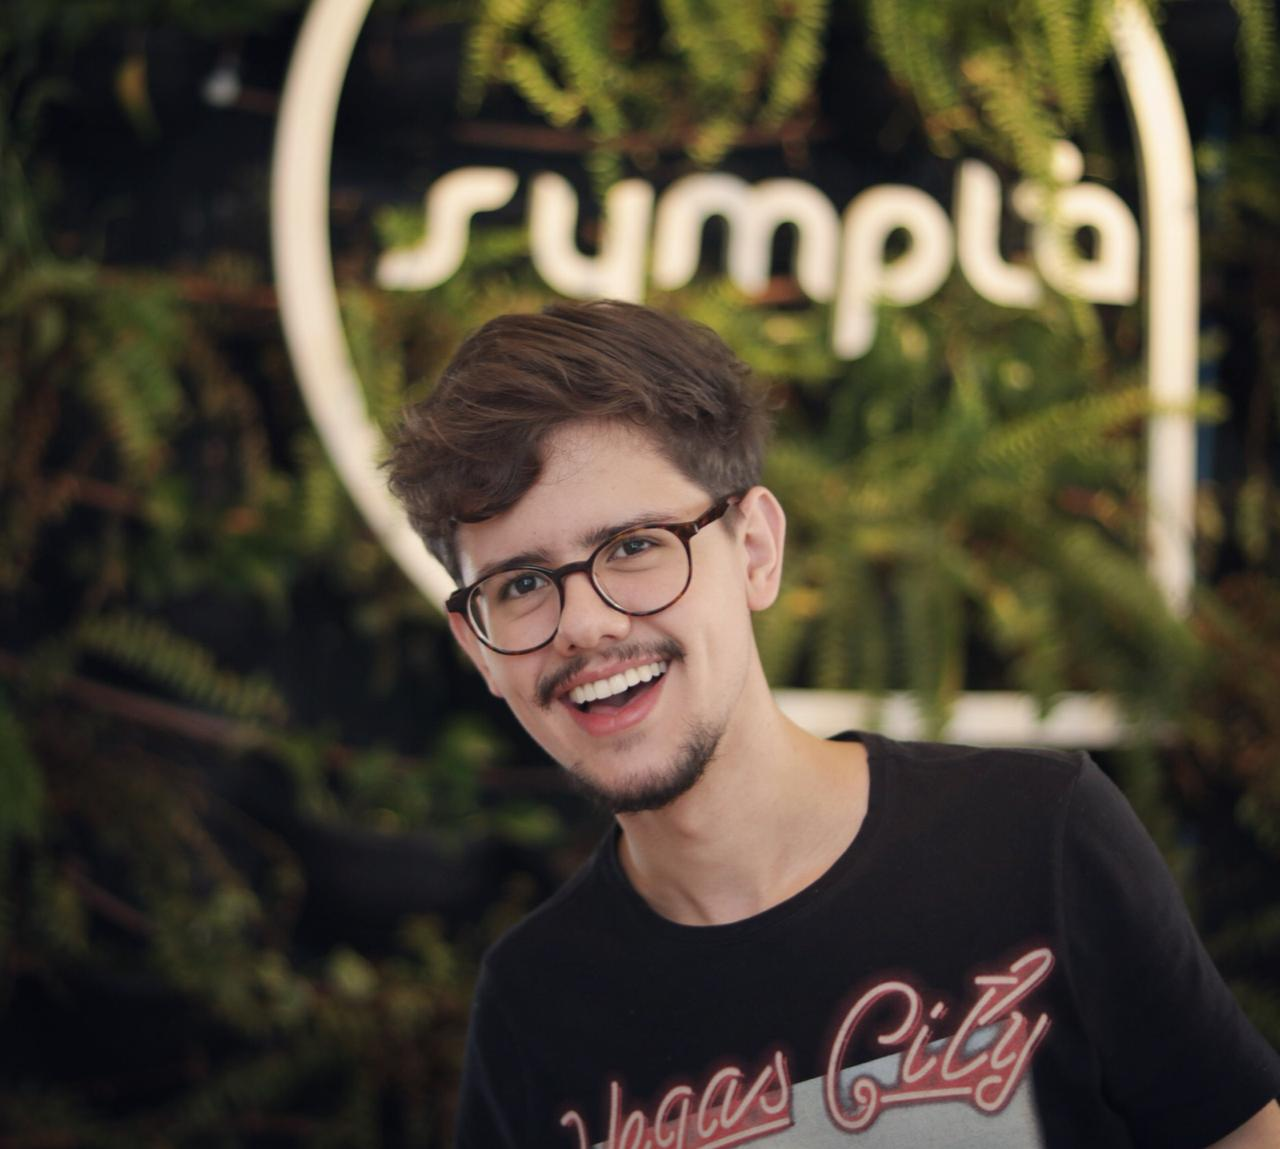
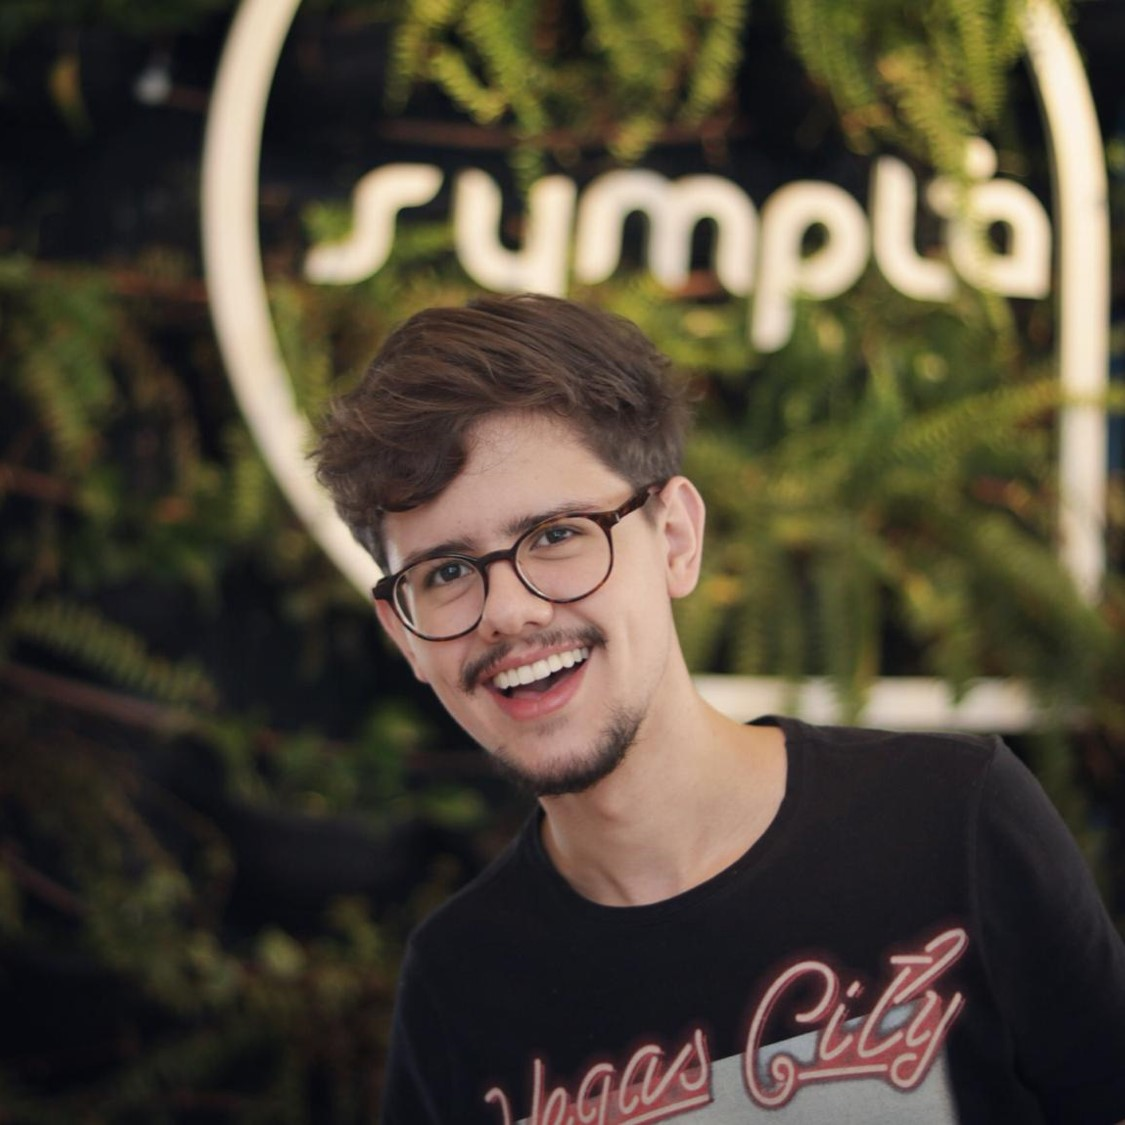
Correções 26.11
Correção no calculo da precificação;
Correção na proporção das imagens do time;
Correções nos dados dos atestados;
Adição dos outros membros do time;
Ordenação dos membros do time;

diff --git a/index.html b/index.html
@@ -165,7 +165,7 @@
         <div class="col-md-12">
             <div class="section-heading">
                 <span>Consulta</span>
-                <h2>Desculpe, Este atestado não existe em nossa base de dados :(</h2>
+                <h2>Desculpe, este atestado não existe em nossa base de dados :(</h2>
             </div>
         </div> 
     </div> 
@@ -187,26 +187,8 @@
                 <div class="thumb">
                     <img src="img/team/fernando.jpg" alt="">
                     <div class="text-content">
-                        <h4>Fernando</h4>
-                        <span>Backend</span>
-                    </div>
-                </div>
-            </div>
-            <div class="item popular-item">
-                <div class="thumb">
-                    <img src="img/team/felipe.jpg" alt="">
-                    <div class="text-content">
-                        <h4>Felipe Assunção</h4>
-                        <span>Backend</span>
-                    </div>
-                </div>
-            </div>
-            <div class="item popular-item">
-                <div class="thumb">
-                    <img src="img/team/iago.jpg" alt="">
-                    <div class="text-content">
-                        <h4>Iago Lacerda</h4>
-                        <span>Documentação</span>
+                        <h4>Fernando Corrêa</h4>
+                        <span>Dev</span>
                     </div>
                 </div>
             </div>
@@ -215,11 +197,46 @@
                     <img src="img/team/gustavo.jpg" alt="">
                     <div class="text-content">
                         <h4>Gustavo Pereira</h4>
-                        <span>Frontend</span>
+                        <span>Dev</span>
                     </div>
                 </div>
             </div>
-
+			<div class="item popular-item">
+                <div class="thumb">
+                    <img src="img/team/mateus.jpg" alt="">
+                    <div class="text-content">
+                        <h4>Mateus Zuffo</h4>
+                        <span>Dev</span>
+                    </div>
+                </div>
+            </div>
+			<div class="item popular-item">
+                <div class="thumb">
+                    <img src="img/team/samuel.jpg" alt="">
+                    <div class="text-content">
+                        <h4>Samuel Cleto</h4>
+                        <span>Dev</span>
+                    </div>
+                </div>
+            </div>
+            <div class="item popular-item">
+                <div class="thumb">
+                    <img src="img/team/felipe.jpg" alt="">
+                    <div class="text-content">
+                        <h4>Felipe Assunção</h4>
+                        <span>Doc</span>
+                    </div>
+                </div>
+            </div>
+            <div class="item popular-item">
+                <div class="thumb">
+                    <img src="img/team/iago.jpg" alt="">
+                    <div class="text-content">
+                        <h4>Iago Lacerda</h4>
+                        <span>Doc</span>
+                    </div>
+                </div>
+            </div>
             <div class="item popular-item">
                 <div class="thumb">
                     <img src="img/team/filipe.jpg" alt="">
@@ -384,9 +401,12 @@
 								   var radios = document.getElementsByName('periodoPlano');
 										for (var i = 0, length = radios.length; i < length; i++){
 											if (radios[0].checked){
-												desconto= 5*chaves/2;
-												total = 30*chaves;
-												total = total-total*(desconto/100)+60;
+												if(chaves > 1){
+													desconto = 29.99*(0.05*(chaves-1));
+												}else{
+													desconto = 0;
+												}
+												total = (29.99-desconto)*chaves;
 												if(checa.checked){
 													document.getElementById("Valor").value = "Consultoria Necessária";
 												}
@@ -397,9 +417,12 @@
 											}
 											if (radios[1].checked){
 												// do whatever you want with the checked radio
-													desconto= 5*chaves/2;
-												total = 153*chaves;
-												total = total-total*(desconto/100)+306;
+												if(chaves > 1){
+													desconto = 29.99*(0.05*(chaves-1));
+												}else{
+													desconto = 0;
+												}
+												total = ((29.99-desconto)*chaves)*6*0.85;
 												if(checa.checked){
 													document.getElementById("Valor").value = "Consultoria Necessária";
 												}
@@ -410,9 +433,12 @@
 											}
 											if (radios[2].checked){
 												// do whatever you want with the checked radio
-												desconto= 5*chaves/2;
-												total = 270*chaves;
-												total = total-total*(desconto/100)+540;
+												if(chaves > 1){
+													desconto = 29.99*(0.05*(chaves-1));
+												}else{
+													desconto = 0;
+												}
+												total = ((29.99-desconto)*chaves)*12*0.75;
 												if(checa.checked){
 													document.getElementById("Valor").value = "Consultoria Necessária";
 												}

diff --git a/css/templatemo-style.css b/css/templatemo-style.css
@@ -7,7 +7,7 @@ http://www.templatemo.com/tm-522-venue
 */
 
 
-/*Atestado */
+/*Atestado */  
 #valido {
 	margin-left: 10px;
 	width: 300px;
@@ -549,8 +549,7 @@ section.banner {
   overflow: hidden;
   z-index: 1;
   border-radius: 50%;
-  min-height: 259px;
-  max-height: 259px;
+  height: 240px;
 }
 
 .popular-places .popular-item .thumb .text-content {
